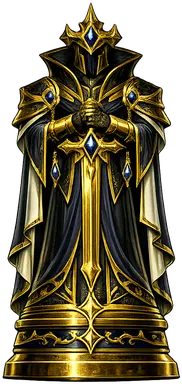
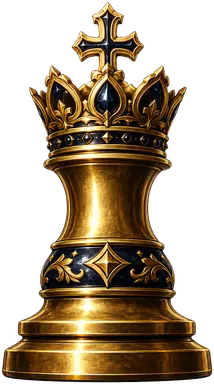
v0.21.4: Galerie fast komplett — 30 Gemälde
- 10 neue Figuren: Bauer, Grand Gambit (Held mit Stern-Raute), Springer, Läufer, Dame, König (mit Kreuz), Erzbischof, Späher, Amazone, Attentäter — 4 davon per Flood-Fill von eingebackener Fake-Transparenz befreit
- Umzuordnung: das bisherige 'König'-Bild (Verhüllter mit Schwert) ist jetzt der Schildträger — der echte König mit Kreuzkrone hat übernommen
- Das klassische Standardbrett ist damit vollständig gemalt; es fehlen nur noch Kapitän, Hexerin und Kundschafter (Fallback: Klassisch)

diff --git a/src/app/ui/board/paintedArt.js b/src/app/ui/board/paintedArt.js
@@ -2,6 +2,16 @@
 // imports — esbuild-friendly — and a resolver from a live board piece to its
 // painting. Pieces without a painting yet fall back to the drawn SVG silently,
 // so the set may grow one figure at a time.
+import pPawn from "../assets/painted/painted-pawn.webp";
+import pGambit from "../assets/painted/painted-gambit.webp";
+import pKnight from "../assets/painted/painted-knight.webp";
+import pBishop from "../assets/painted/painted-bishop.webp";
+import pQueen from "../assets/painted/painted-queen.webp";
+import pArchbishop from "../assets/painted/painted-archbishop.webp";
+import pHawk from "../assets/painted/painted-hawk.webp";
+import pAmazon from "../assets/painted/painted-amazon.webp";
+import pAssassin from "../assets/painted/painted-assassin.webp";
+import pGuardian from "../assets/painted/painted-guardian.webp";
 import pRook from "../assets/painted/painted-rook.webp";
 import pKing from "../assets/painted/painted-king.webp";
 import pChancellor from "../assets/painted/painted-chancellor.webp";
@@ -24,6 +34,8 @@ import bArchenemy from "../assets/painted/painted-boss-archenemy.webp";
 import bLeaguemaster from "../assets/painted/painted-boss-leaguemaster.webp";
 
 export const PAINTED = {
+  pawn: pPawn, gambit: pGambit, knight: pKnight, bishop: pBishop, queen: pQueen,
+  archbishop: pArchbishop, hawk: pHawk, amazon: pAmazon, assassin: pAssassin, guardian: pGuardian,
   rook: pRook, king: pKing, chancellor: pChancellor, dragon: pDragon, mage: pMage,
   alchemist: pAlchemist, warlock: pWarlock, paladin: pPaladin, inquisitor: pInquisitor,
   bard: pBard, engineer: pEngineer, standard: pStandard, strategist: pStrategist,

diff --git a/layout_harness2.jsx b/layout_harness2.jsx
@@ -16,7 +16,7 @@ const profile = defaultProfile();
 profile.campaign = { ...(profile.campaign || {}), league: 6, cleared: [], unlocked: Object.keys(CHARACTERS) };
 
 const map = mapById("classic");
-const side = () => buildArmyFromFormation(() => 1, ["rook","dragon","mage","king","paladin","bard","engineer","rook"]);
+const side = () => buildArmyFromFormation(() => 1, map.defaultFormation);
 const state = createGame(side(), buildAiArmyForMap("easy", map, 3), { map, rules: "hp", seed: 3 });
 
 const style = document.createElement("style");